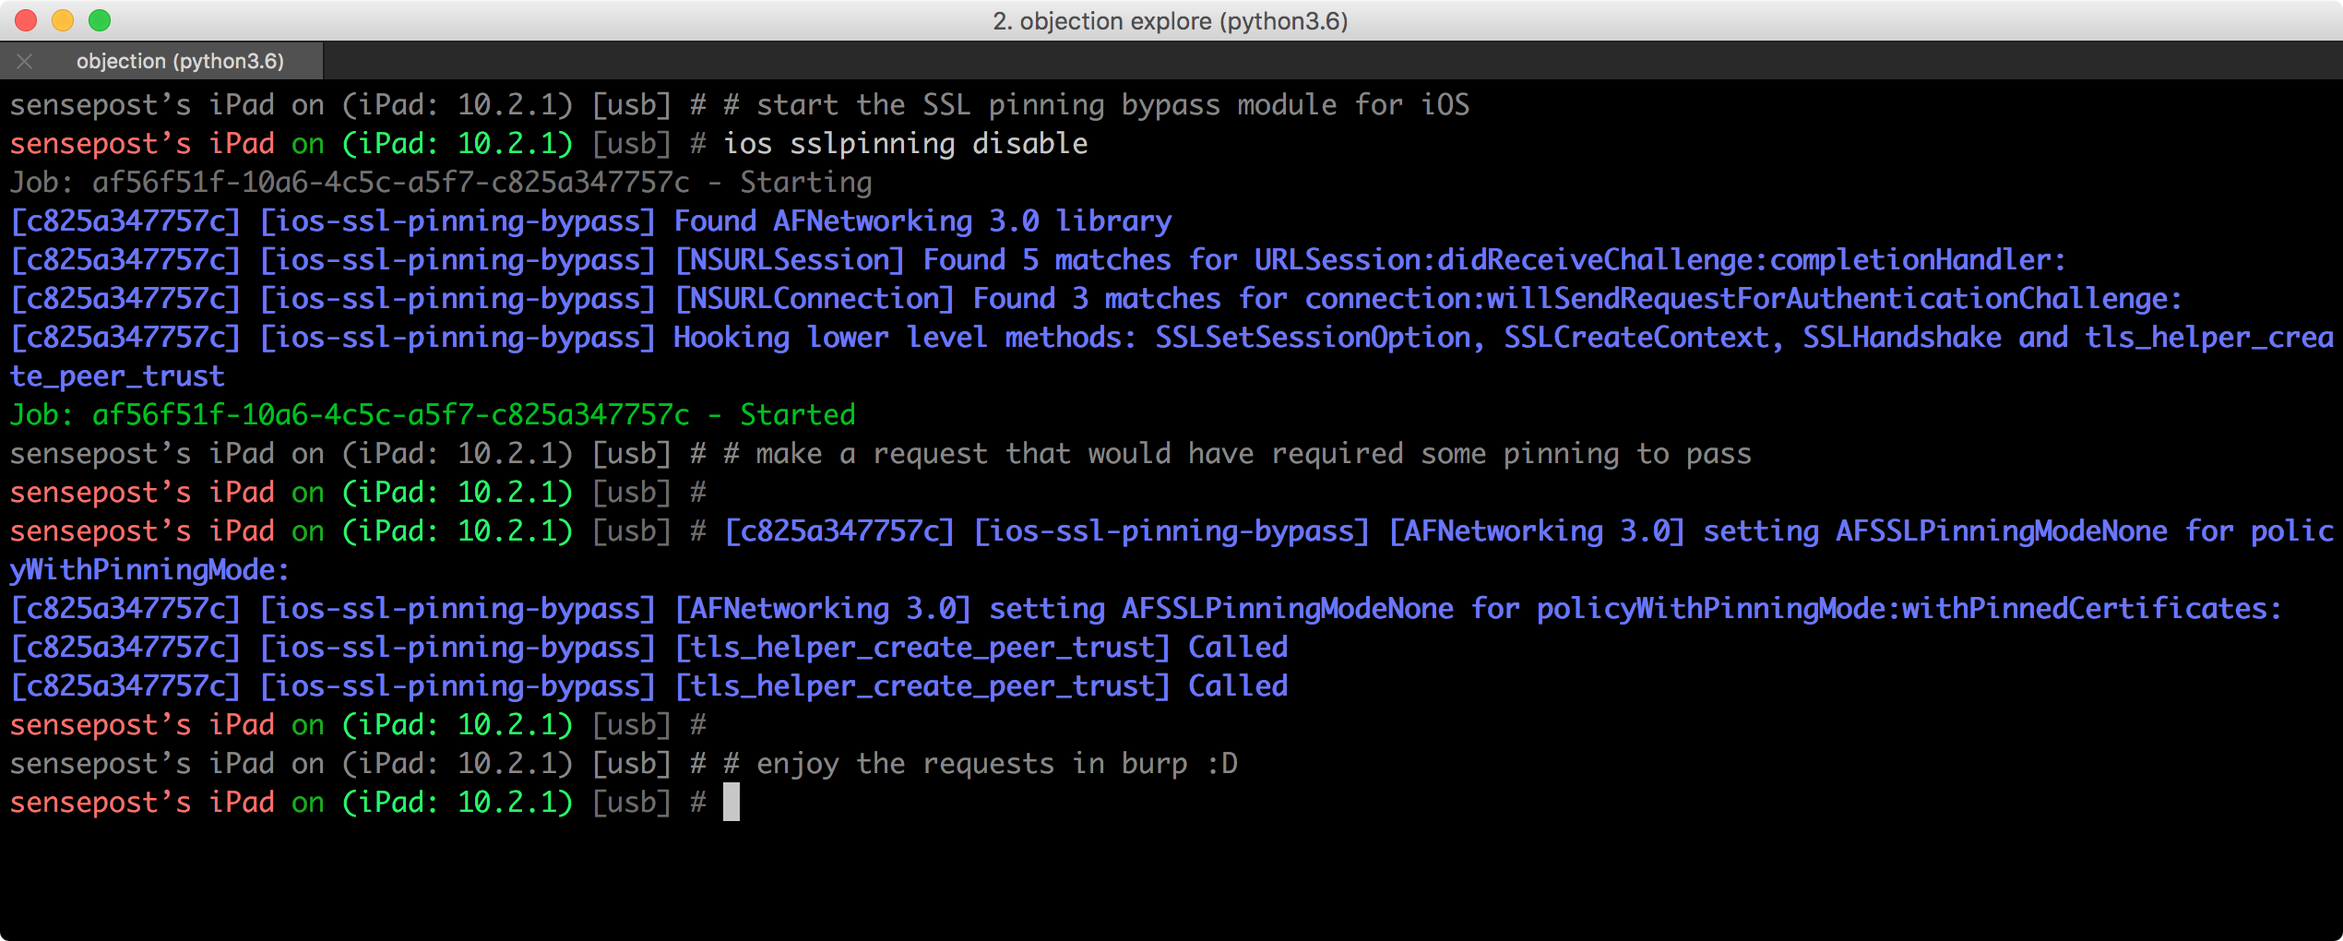
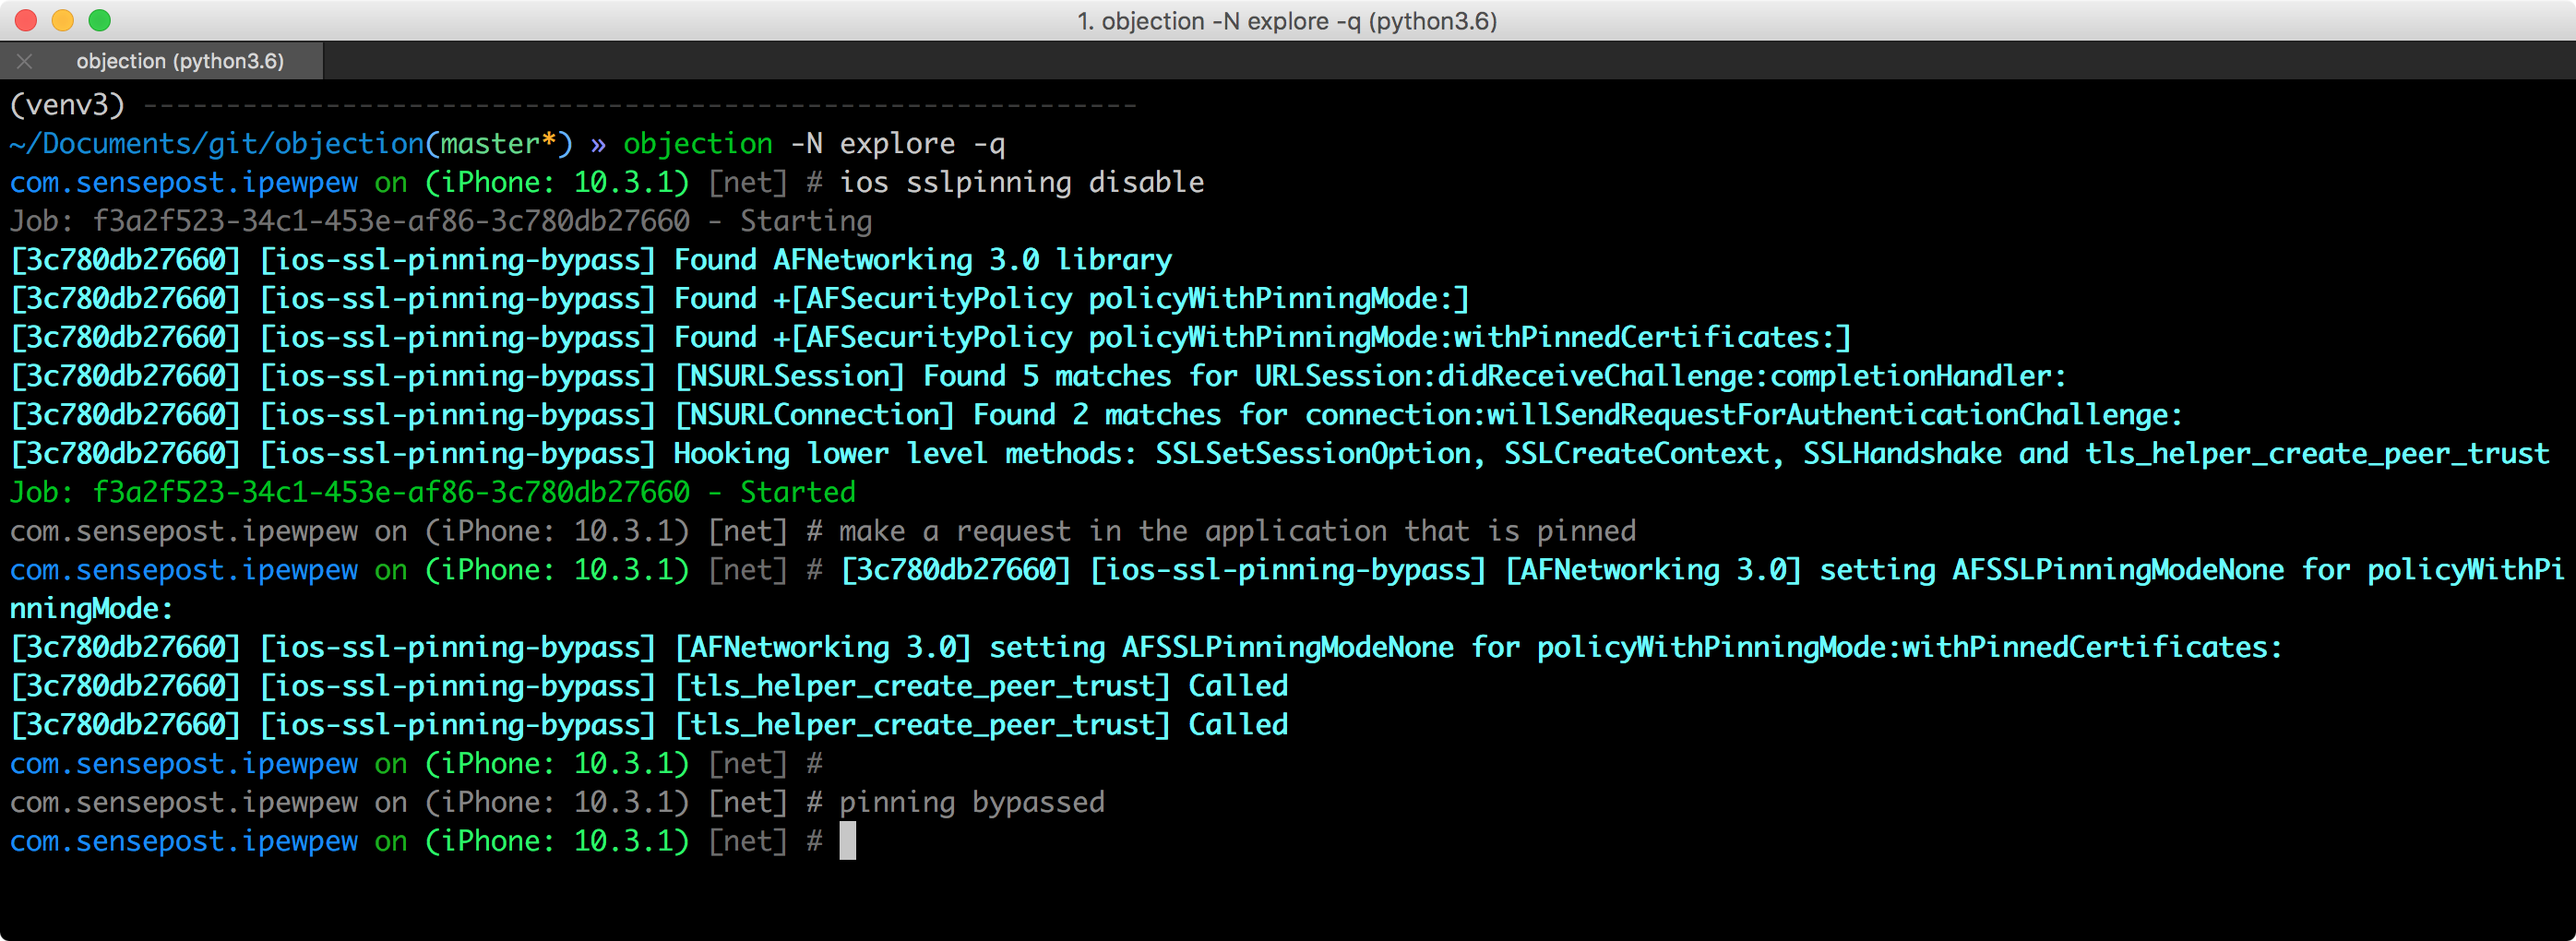
Update screenshots and README.

Changed region(s): [[0.0, 0.0304, 0.9953, 0.9118], [0.4043, 0.0, 0.5909, 0.0304], [0.0, 0.0, 0.0622, 0.0304]]

diff --git a/README.md b/README.md
@@ -76,7 +76,7 @@ The following screenshots show the main `objection` repl, connected to a test ap
 ![sslpinning](images/android_ssl_pinning_bypass.png)
 
 ## sample usage
-A sample session, where `objection` is used to explore the applications environment:
+A sample session, where `objection` version 0.1 is used to explore the applications environment. Newer versions have the REPL prompt set to the current applications name, however usage has remained the same:
 [![asciicast](https://asciinema.org/a/8O6fjDHOdVKgPYeqITHXPp6HV.png)](https://asciinema.org/a/8O6fjDHOdVKgPYeqITHXPp6HV)
 
 ## prerequisites
